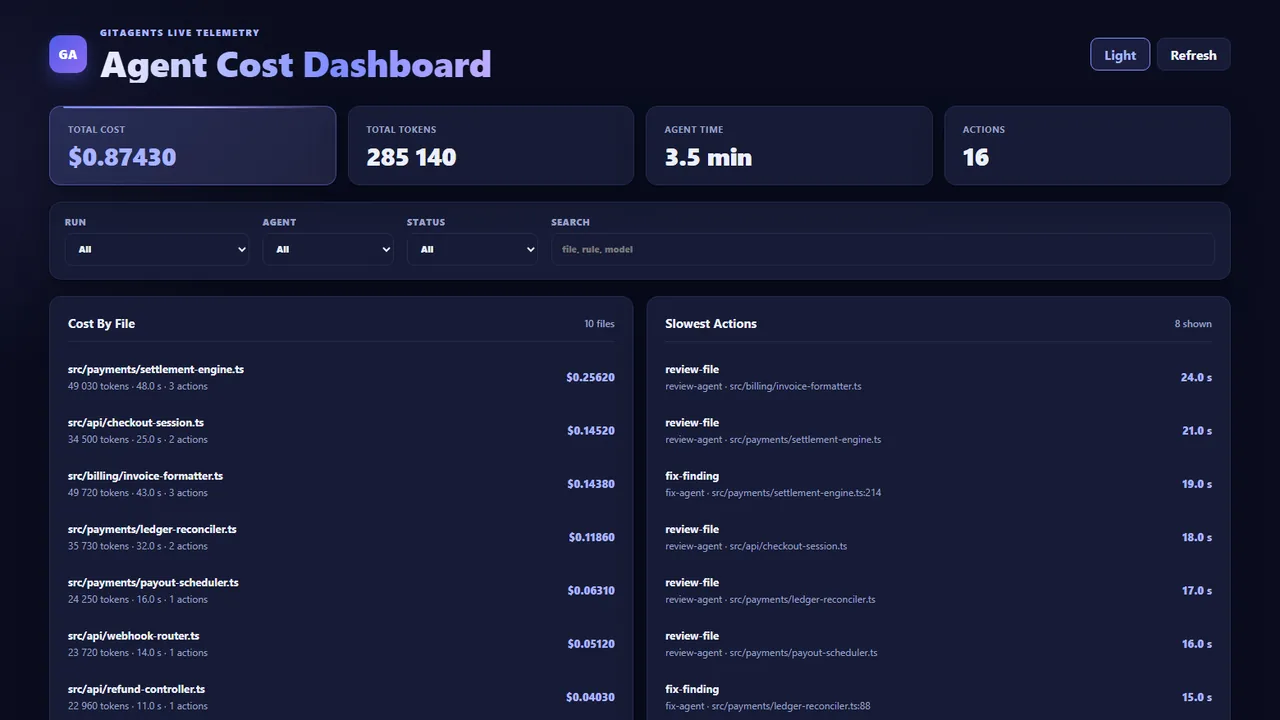
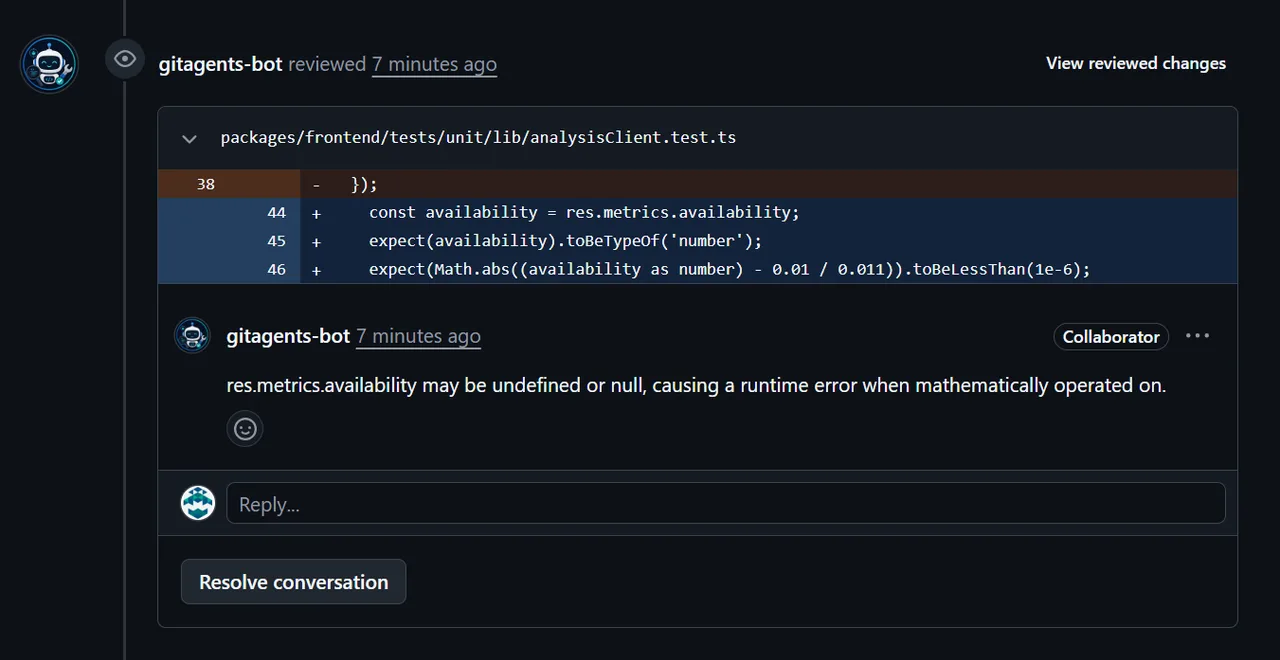
content: refresh GitAgents and RAMSey preview screenshots

diff --git a/src/content/doors.data.ts b/src/content/doors.data.ts
@@ -95,7 +95,7 @@ export const doors: readonly Door[] = [
         stack: ['TypeScript', 'Node.js', 'Claude API', 'GitLab CI / GitHub Actions', 'Postgres'],
         preview: {
           src: '/previews/gitagents.webp',
-          alt: 'GitAgents cost dashboard: per-run token spend, slowest actions, and agent telemetry',
+          alt: 'GitAgents review bot posting an inline pull-request comment flagging a possible null dereference',
         },
       },
       { kind: 'projectCard',
@@ -107,7 +107,7 @@ export const doors: readonly Door[] = [
         stack: ['TypeScript', 'React', 'Fastify', 'Postgres', 'Redis', 'Yjs', 'AWS'],
         preview: {
           src: '/previews/ramsey.webp',
-          alt: 'RAMSey collaborative diagram editor preview',
+          alt: 'RAMSey editor showing a Markov chain diagram alongside a steady-state availability analysis panel',
         },
       },
 
